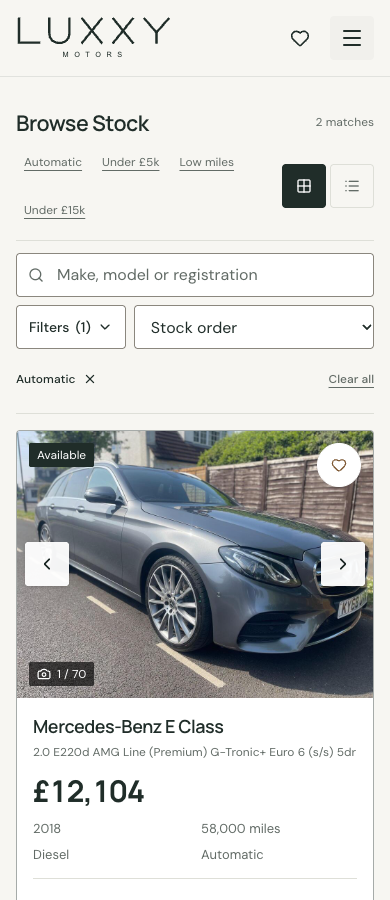
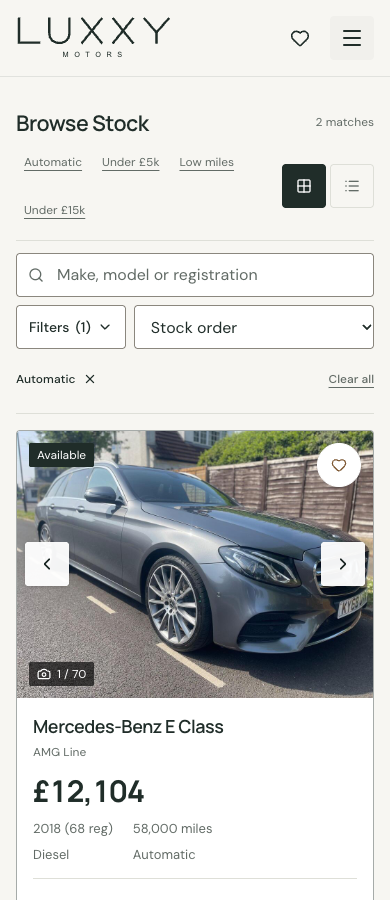
Improve stock presentation and shareable customer browsing

diff --git a/artifacts/luxxy-motors/src/pages/home.tsx b/artifacts/luxxy-motors/src/pages/home.tsx
@@ -1,3 +1,4 @@
+import { arrivalTime } from '@/lib/stock-presentation';
 import { RollingStock } from '@/components/rolling-stock';
 import { HeroStockSearch } from '@/components/hero-stock-search';
 import { RecentlyViewed } from '@/components/recently-viewed';
@@ -80,6 +81,15 @@ export default function Home({ browseStock = false }: { browseStock?: boolean })
   usePageMeta({ ...showroomPageMeta(dealerConfig, { count: stock?.cars.length ?? null }), ...(browseStock ? { title: 'Browse Stock | ' + dealerConfig.identity.name, url: window.location.origin + '/stock' } : {}) });
 
   const [filters, setFilters] = useState<FilterState>(() => {
+    if (browseStock && window.location.search) {
+      const params = new URLSearchParams(window.location.search);
+      const next = { ...defaultFilters };
+      for (const key of Object.keys(next) as (keyof FilterState)[]) {
+        const value = params.get(key);
+        if (value !== null) Object.assign(next, { [key]: typeof next[key] === 'boolean' ? value === 'true' : value });
+      }
+      return next;
+    }
     const saved = readBrowseSession().filters;
     return saved &&
       Object.keys(defaultFilters).every(
@@ -90,6 +100,30 @@ export default function Home({ browseStock = false }: { browseStock?: boolean })
       ? saved
       : defaultFilters;
   });
+
+  useEffect(() => {
+    if (!browseStock) return;
+    const params = new URLSearchParams();
+    Object.entries(filters).forEach(([key, value]) => { if (value) params.set(key, String(value)); });
+    const query = params.toString();
+    const url = window.location.pathname + (query ? '?' + query : '');
+    if (url !== window.location.pathname + window.location.search) window.history.replaceState(window.history.state, '', url);
+  }, [filters, browseStock]);
+
+  useEffect(() => {
+    if (!browseStock) return;
+    const restoreQuery = () => {
+      const params = new URLSearchParams(window.location.search);
+      const next = {...defaultFilters};
+      for (const key of Object.keys(next) as (keyof FilterState)[]) {
+        const value = params.get(key);
+        if (value !== null) Object.assign(next, {[key]: typeof next[key] === 'boolean' ? value === 'true' : value});
+      }
+      setFilters(next);
+    };
+    window.addEventListener('popstate', restoreQuery);
+    return () => window.removeEventListener('popstate', restoreQuery);
+  }, [browseStock]);
 
   const filteredCars = useMemo(() => {
     if (!stock) return [];
@@ -142,9 +176,9 @@ export default function Home({ browseStock = false }: { browseStock?: boolean })
 
     if (filters.sort) {
       result.sort((a, b) => {
-        const field = filters.sort.startsWith('price') ? 'price' : 'mileage';
-        const first = a[field];
-        const second = b[field];
+        const field = filters.sort.startsWith('price') ? 'price' : filters.sort === 'year-desc' ? 'year' : 'mileage';
+        const first = filters.sort === 'arrival-desc' ? arrivalTime(a) : a[field];
+        const second = filters.sort === 'arrival-desc' ? arrivalTime(b) : b[field];
         // Unknown values belong after known values in either direction.
         if (first == null || !Number.isFinite(first)) return second == null || !Number.isFinite(second) ? 0 : 1;
         if (second == null || !Number.isFinite(second)) return -1;
@@ -152,6 +186,8 @@ export default function Home({ browseStock = false }: { browseStock?: boolean })
           case 'price-asc':
           case 'mileage-asc':
             return first - second;
+          case 'year-desc':
+          case 'arrival-desc':
           case 'price-desc':
           case 'mileage-desc':
             return second - first;
@@ -437,6 +473,11 @@ export default function Home({ browseStock = false }: { browseStock?: boolean })
                 <p className="mt-3 text-sm text-muted-foreground">
                   Try widening your budget or clearing the filters.
                 </p>
+                <div className="mt-4 flex flex-wrap justify-center gap-3">
+                  {filters.transmission && <Button variant="outline" onClick={() => setFilters(current => ({...current, transmission: ''}))}>Search all transmissions</Button>}
+                  {filters.make && <Button variant="outline" onClick={() => setFilters(current => ({...current, make: '', model: ''}))}>Search all makes</Button>}
+                  {filters.maxPrice && <Button variant="outline" onClick={() => setFilters(current => ({...current, maxPrice: String(Math.ceil(Number(current.maxPrice) * 1.25 / 500) * 500)}))}>Increase maximum price to £{(Math.ceil(Number(filters.maxPrice) * 1.25 / 500) * 500).toLocaleString('en-GB')}</Button>}
+                </div>
                 <Button
                   variant="outline"
                   className="mt-6"

diff --git a/artifacts/luxxy-motors/src/components/filters.tsx b/artifacts/luxxy-motors/src/components/filters.tsx
@@ -1,3 +1,4 @@
+import { arrivalTime } from '@/lib/stock-presentation';
 import { useEffect, useMemo, useState } from 'react';
 import {
   ChevronDown,
@@ -19,7 +20,7 @@ export interface FilterState {
   catS: boolean;
   catN: boolean;
   noWriteOff: boolean;
-  sort: 'price-asc' | 'price-desc' | 'mileage-asc' | 'mileage-desc' | '';
+  sort: 'price-asc' | 'price-desc' | 'mileage-asc' | 'mileage-desc' | 'year-desc' | 'arrival-desc' | '';
 }
 
 interface FiltersProps {
@@ -217,6 +218,8 @@ export function Filters({ cars, filters, setFilters, onSearch, vehicleCount }: F
           className="h-11 min-w-0 w-full border-input bg-card pl-3 pr-6 text-base shadow-none lg:text-sm"
         >
           <option value="">Stock order</option>
+          {cars.some(car => arrivalTime(car) !== null) && <option value="arrival-desc">Newest arrivals</option>}
+          <option value="year-desc">Newest registration year</option>
           <option value="price-asc">Lowest price</option>
           <option value="price-desc">Highest price</option>
           <option value="mileage-asc">Lowest mileage</option>
@@ -261,7 +264,7 @@ export function Filters({ cars, filters, setFilters, onSearch, vehicleCount }: F
                 onChange={(value) => changeBudget('minPrice', value)}
               >
                 <option value="">Any</option>
-                {[5000, 10000, 20000, 30000, 40000, 50000, 75000].map((price) => (
+                {Array.from(new Set([5000, 10000, 20000, 30000, 40000, 50000, 75000, ...(filters.minPrice && Number.isFinite(Number(filters.minPrice)) ? [Number(filters.minPrice)] : [])])).sort((a,b) => a-b).map((price) => (
                   <option key={price} value={String(price)}>£{price.toLocaleString()}</option>
                 ))}
               </Select>
@@ -272,7 +275,7 @@ export function Filters({ cars, filters, setFilters, onSearch, vehicleCount }: F
                 onChange={(value) => changeBudget('maxPrice', value)}
               >
                 <option value="">Any</option>
-                {[5000, 10000, 20000, 30000, 40000, 50000, 75000, 100000].map((price) => (
+                {Array.from(new Set([5000, 10000, 20000, 30000, 40000, 50000, 75000, 100000, ...(filters.maxPrice && Number.isFinite(Number(filters.maxPrice)) ? [Number(filters.maxPrice)] : [])])).sort((a,b) => a-b).map((price) => (
                   <option key={price} value={String(price)}>£{price.toLocaleString()}</option>
                 ))}
               </Select>

diff --git a/artifacts/luxxy-motors/tests/homepage-hero.spec.ts b/artifacts/luxxy-motors/tests/homepage-hero.spec.ts
@@ -30,7 +30,7 @@ for (const width of [390, 1440]) {
     await hero.getByRole('combobox', { name: 'Search make', exact: true }).selectOption('MG');
     await hero.getByRole('combobox', { name: 'Search model', exact: true }).selectOption('MG HS');
     await hero.getByRole('button', { name: 'Search 1 used car', exact: true }).click();
-    await expect(page).toHaveURL(/\/stock$/);
+    await expect(page).toHaveURL(/\/stock(?:\?.*)?$/);
     await expect(page.getByRole('heading', {name: 'Browse Stock'})).toBeVisible();
     await expect(page.locator('[data-testid^="card-vehicle-"]')).toHaveCount(1);
     await expect(page.getByTestId('card-vehicle-preview-2')).toBeVisible();
@@ -55,7 +55,7 @@ for (const width of [390, 1440]) {
     await first.getByRole('link', {name: /View vehicle/}).click();
     await expect(page).toHaveURL(/\/vehicle\//);
     await page.getByRole('link', {name: 'Back to Browse Stock'}).click();
-    await expect(page).toHaveURL(/\/stock$/);
+    await expect(page).toHaveURL(/\/stock(?:\?.*)?$/);
     await expect(page.getByRole('heading', {name: 'Browse Stock'})).toBeAttached();
   });
 }
@@ -72,6 +72,6 @@ test('rolling cars move left, pause and respect reduced motion', async ({ page }
   await page.emulateMedia({reducedMotion: 'reduce'});
   await expect(page.locator('.rolling-stock-copy')).toBeHidden();
   await page.goto('/#stock');
-  await expect(page).toHaveURL(/\/stock$/);
+  await expect(page).toHaveURL(/\/stock(?:\?.*)?$/);
   await expect(page.getByRole('heading', {name: 'Browse Stock'})).toBeVisible();
 });

diff --git a/artifacts/luxxy-motors/src/lib/stock-presentation.test.ts b/artifacts/luxxy-motors/src/lib/stock-presentation.test.ts
@@ -1,0 +1,24 @@
+import {describe, expect, it} from 'vitest';
+import {arrivalTime, stockHighlights, shortTrim, stockRegistrationYear} from './stock-presentation';
+import type {Car} from './stock-context';
+describe('stock presentation from supplied data', () => {
+  it('does not treat an import timestamp as an arrival date', () => {
+    expect(arrivalTime({scrapedAt:'2026-09-25'} as unknown as Car)).toBeNull();
+    expect(arrivalTime({listedAt:'invalid'} as unknown as Car)).toBeNull();
+    expect(arrivalTime({listedAt:'2026-09-25'} as unknown as Car)).toBe(Date.parse('2026-09-25'));
+  });
+  it('keeps at most two explicit useful equipment features and excludes negatives', () => {
+    expect(stockHighlights({features:['No parking sensors', 'Heated seats', 'Heated seats', 'Apple CarPlay', 'Panoramic roof']} as unknown as Car)).toEqual(['Heated seats','Apple CarPlay']);
+    expect(stockHighlights({description:'Possibly has heated seats'} as unknown as Car)).toEqual([]);
+  });
+  it('shortens emissions and door wording without changing the source', () => {
+    const car = {variant:'Titanium Euro 6 (s/s) 5dr'} as Car;
+    expect(shortTrim(car)).toBe('Titanium');
+    expect(car.variant).toBe('Titanium Euro 6 (s/s) 5dr');
+  });
+});
+
+it('formats a full supplied registration band without repeating the year', () => {
+  expect(stockRegistrationYear({year:2018, registrationBand:'2018 (68 reg)'} as Car)).toBe('2018 (68 reg)');
+  expect(stockRegistrationYear({year:2018, registrationBand:'68'} as Car)).toBe('2018 (68 reg)');
+});

diff --git a/artifacts/luxxy-motors/src/components/car-card.tsx b/artifacts/luxxy-motors/src/components/car-card.tsx
@@ -1,3 +1,4 @@
+import { shortTrim, stockHighlights, stockRegistrationYear } from '@/lib/stock-presentation';
 import { responsiveVehicleImage, retryOriginalImage } from "@/lib/responsive-vehicle-image";
 import { vehicleAvailability } from '@/lib/customer-convenience';
 import { rememberStockPosition } from "@/lib/browse-session";
@@ -80,7 +81,7 @@ export function CarCard({
   }, [car.id, imageSignature]);
 
   const specs = [
-    car.year ? { label: 'Year', value: String(car.year) } : null,
+    car.year ? { label: 'Year', value: stockRegistrationYear(car) } : null,
     car.mileage != null
       ? { label: 'Mileage', value: formatMileage(car.mileage) }
       : car.mileageText
@@ -198,7 +199,7 @@ export function CarCard({
             </h3>
             {(car.variant || car.trim) && (
               <p className="mt-1 line-clamp-2 text-xs leading-relaxed text-muted-foreground">
-                {car.variant || car.trim}
+                {shortTrim(car)}
               </p>
             )}
           </div>
@@ -217,6 +218,7 @@ export function CarCard({
             <span key={spec.label} aria-label={`${spec.label}: ${spec.value}`}>{spec.value}</span>
           ))}
         </div>
+        {stockHighlights(car).length > 0 && <p className="stock-card-highlights mb-3 text-xs text-muted-foreground">{stockHighlights(car).join(' · ')}</p>}
         {registration && isRow && (
           <p className="mb-4 text-xs text-muted-foreground">
             Registration{" "}

diff --git a/artifacts/luxxy-motors/src/lib/stock-presentation.ts b/artifacts/luxxy-motors/src/lib/stock-presentation.ts
@@ -1,0 +1,21 @@
+import type { Car } from './stock-context';
+export function arrivalTime(car: Car): number | null {
+  const value = car.listedAt ?? car.firstListedAt ?? car.dateAdded;
+  if (typeof value !== 'string') return null;
+  const date = Date.parse(value);
+  return Number.isFinite(date) ? date : null;
+}
+export function stockHighlights(car: Car): string[] {
+  const raw = car.features ?? car.specifications?.features ?? car.sourceExtras?.features;
+  return Array.isArray(raw) ? [...new Set(raw.filter((v): v is string => typeof v === 'string' && v.length <= 70 && /panoramic|heated seats|rear.*camera|parking sensors|apple carplay|android auto|cruise control|satellite navigation/i.test(v) && !/without|not fitted|no /i.test(v)))].slice(0, 2) : [];
+}
+export function shortTrim(car: Car): string {
+  const text = (car.trim || car.variant || '').replace(/\bEuro\s*\d[^ ]*/gi, '').replace(/\(s\/s\)/gi, '').replace(/\b\d(?:dr|door)\b/gi, '').replace(/\s+/g, ' ').trim();
+  return text.length > 65 ? text.slice(0, 62).trim() + '…' : text;
+}
+export function stockRegistrationYear(car: Car): string {
+  const band = car.registrationBand?.trim() || '';
+  const year = car.year ? String(car.year) : '';
+  const number = band.match(/\b(\d{2})\s*reg\b/i)?.[1] || (/^\d{2}$/.test(band) ? band : '');
+  return [year, number ? '(' + number + ' reg)' : ''].filter(Boolean).join(' ');
+}

diff --git a/artifacts/luxxy-motors/tests/stock-convenience.spec.ts b/artifacts/luxxy-motors/tests/stock-convenience.spec.ts
@@ -1,0 +1,21 @@
+import {expect, test} from '@playwright/test';
+test.skip(process.env.LUXXY_LOCAL_PREVIEW !== '1', 'Local fixtures');
+test('shared search, year sorting, save feedback and narrower recovery', async ({page}) => {
+  await page.goto('/stock?make=MG&sort=year-desc');
+  const cards = page.locator('.browse-stock .vehicle-card');
+  await expect(cards).toHaveCount(2);
+  await expect(cards.first()).toContainText('MG HS');
+  await expect(page.getByRole('combobox', {name:'Sort results'})).toHaveValue('year-desc');
+  await page.reload();
+  await expect(cards).toHaveCount(2);
+  await cards.first().getByRole('button', {name:/^Save .* to your saved cars/}).click();
+  await expect(page.getByText('Car saved', {exact:true})).toBeVisible();
+  await page.getByRole('link', {name:'View saved cars', exact:true}).click();
+  await expect(page).toHaveURL(/\/saved$/);
+  await page.goto('/stock?make=MG&maxPrice=5000&transmission=Automatic');
+  await expect(page.getByRole('heading', {name:'No matches'})).toBeVisible();
+  await page.getByRole('button', {name:'Search all transmissions'}).click();
+  await expect(page).toHaveURL(/make=MG&maxPrice=5000$/);
+  await page.getByRole('button', {name:'Increase maximum price to £6,500'}).click();
+  await expect(page).toHaveURL(/make=MG&maxPrice=6500$/);
+});

diff --git a/artifacts/luxxy-motors/src/components/saved-car-controls.tsx b/artifacts/luxxy-motors/src/components/saved-car-controls.tsx
@@ -1,3 +1,4 @@
+import { Link } from 'wouter';
 import { useDealerSettings } from '@/lib/dealer-settings-context';
 import { Check, Heart, Scale } from 'lucide-react';
 import { Car } from '@/lib/stock-context';
@@ -21,6 +22,7 @@ export function SaveCarButton({
 }) {
   const { isSaved, toggleSaved } = useSavedCars();
   const saved = isSaved(car.id);
+  const { toast } = useToast();
   const label = vehicleLabelFor(car);
 
   return (
@@ -29,6 +31,7 @@ export function SaveCarButton({
       onClick={(e) => {
         e.preventDefault();
         toggleSaved(car.id);
+        if (!saved) toast({title: 'Car saved', description: <Link href="/saved" className="underline underline-offset-4">View saved cars</Link>, duration: 5000});
       }}
       aria-pressed={saved}
       aria-label={saved ? `Remove ${label} from your saved cars` : `Save ${label} to your saved cars`}

diff --git a/artifacts/luxxy-motors/src/index.css b/artifacts/luxxy-motors/src/index.css
@@ -377,3 +377,6 @@
  .rolling-stock .vehicle-card { border-right-width: 4px; }
  .rolling-stock .vehicle-card-details { min-height: 112px; padding: 18px 14px; }
 }
+.browse-stock .vehicle-card img { object-fit: contain; background: #eeefed; }
+.browse-stock .vehicle-specs { grid-template-columns: auto auto; justify-content: start; column-gap: 1.25rem; }
+.rolling-stock .stock-card-highlights { display: none; }

diff --git a/artifacts/luxxy-motors/src/pages/home.test.tsx b/artifacts/luxxy-motors/src/pages/home.test.tsx
@@ -207,6 +207,7 @@ afterEach(() => vi.restoreAllMocks());
 
 beforeEach(() => {
   window.matchMedia = vi.fn().mockReturnValue({ matches: false });
+  window.history.replaceState({}, '', '/');
   window.sessionStorage.clear();
   vi.clearAllMocks();
   window.localStorage.clear();

diff --git a/docs/ui-redesign.md b/docs/ui-redesign.md
@@ -635,3 +635,15 @@ Validation: all 168 frontend tests, both new 390px/1440px browser scenarios, ful
 Matched the supplied reference with individual square car boxes, narrow white vertical separators, large photography and grey centred name/price panels. Simplified only the homepage boxes by omitting specification/action rows; photographs and names still link to details, with save and photo controls retained. Four desktop boxes, mobile swiping, stepped motion and the flush hero join remain. Browse Stock styling is unchanged. Workspace typechecking/build and three desktop/mobile carousel/search browser checks passed; fresh homepage screenshots inspected.
 
 Homepage featured boxes now omit the photo-count badge, save-heart button and previous/next photo controls. Shared CarCard uses an explicit photoControls prop, defaulting on elsewhere, so Browse Stock retains those actions. Vehicle links and stepped carousel movement remain. Workspace build/typechecks and desktop/mobile browser checks passed.
+
+### Eight stock browsing improvements
+- Stock photos use contain within the consistent 4:3 area, avoiding additional crop of supplied photography.
+- Card trim text prefers supplied concise trim, removing emissions/door boilerplate from the fallback variant.
+- Year/registration band is normalised without repeating the year, followed by mileage and fuel/transmission.
+- Up to two supplied equipment highlights are shown; no inferred features.
+- Added registration-year sorting and conditional newest-arrivals sorting from listedAt/firstListedAt/dateAdded. Import timestamps are not used; current fixtures do not provide arrival dates, so that option stays hidden.
+- Current filters/sort are represented in the URL, restored on direct load/reload and browser history navigation.
+- Empty results can widen transmission, make or maximum budget without clearing other criteria.
+- Saving a car shows a five-second confirmation with a View saved cars link.
+
+Validation: 172 frontend tests, desktop/mobile stock browser checks and shared-URL/save/recovery checks pass; workspace typechecking/build pass with the existing chunk-size warning. Fresh desktop/mobile stock screenshots inspected. No backend, API or database changes.
